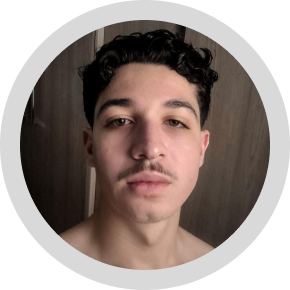
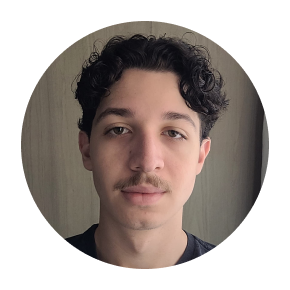
Trocando foto e Sobre Mim

diff --git a/index.html b/index.html
@@ -97,20 +97,10 @@
                 <section id="about" class="container2">
                     <h2 class="container2__título"><span>/*</span>Sobre Mim<span>*/</span></h2>
                     <p class="container2__texto">
-                        Sou um jovem de 18 anos que almeja a aprendizagem. Aos 12 anos de idade recebi um Certificado de Menção Honrosa da
-                        OBMEP, no mesmo ano fui aluno do NAAH/S(Núcleo de Atividade de Altas Habilidades/Superlotação).
+                        Sou estudante do 3° período de TADS da Universidade Integrado onde também sou Monitor e Professor de Bootcamp. No colégio integrado sou Professor do Itinerário de Tecnologias Digitais.
                         <br>
                         <br>
-                        Trabalhei como estagiário no setor administrativo do Serviço Municipal de Saúde da minha cidade, no qual ingressei por
-                        meio de um processo seletivo. Trabalhei como responsável pelo setor de Digitação na empresa Labcenter Medicina
-                        Diagnóstica.
-                        <br>
-                        <br>
-                        Em meu último ano do Ensino Médio atuei como Aluno Monitor, auxiliando professores e alunos.
-                        <br>
-                        <br>
-                        Hoje sou estudante do 1° período de TADS e faço parte do Programa de Aceleração de Carreiras da faculdade onde estudo
-                        (Centro Universitário Integrado), onde realizamos cursos da área de tecnologia pela plataforma da Alura.
+                        Ano passado fiz parte do programa de Aceleração de Carreiras do Integrado onde fui inserido no mundo da programação e desenvolvi alguns projetos no mesmo.
                     </p>
 
                     
